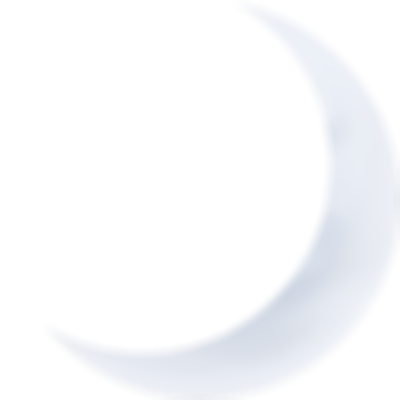
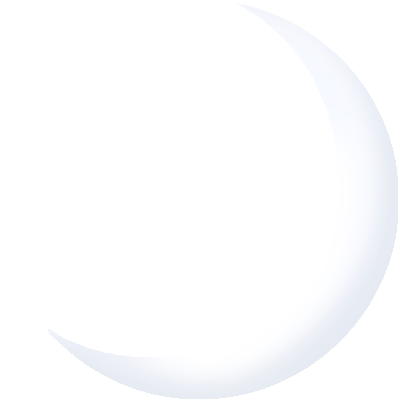
feat: rename Соединение to Подключение, strip Оформление down to the font
Both builds, same cut in each:

  * Соединение is Подключение everywhere it is a page title or a hub card.
  * Оформление keeps only the font picker. Themes, colour swatches, window
    opacity, moon artwork, background image and the language block are gone —
    a lot of knobs to carry in two clients for something almost nobody moves.
  * Политика конфиденциальности drops out of the hub. It is still there, opened
    from О приложении, which is where it belongs.
  * The disconnected moon is the redrawn one from assets/icons; it feeds both
    the connect button and the Windows tray icon.

The theme model itself stays and still loads from theme.json — only the editing
UI went. The view-model commands it used are now unreferenced and get removed in
the cleanup pass.

Changed region(s): [[0.42, 0.45, 0.9, 0.93], [0.81, 0.3, 0.87, 0.36]]

diff --git a/src/MoonInternet.App/Views/SettingsView.xaml b/src/MoonInternet.App/Views/SettingsView.xaml
@@ -74,14 +74,15 @@
                 <TextBlock Text="Настройки" FontSize="26" FontWeight="Bold" Margin="2,4,0,2"/>
                 <TextBlock Text="Moon Internet · 0.9.0 beta" Foreground="{StaticResource TextSecondary}" FontSize="12.5" Margin="2,0,0,18"/>
 
-                <Button Style="{StaticResource HubCard}" Tag="&#xE790;" Content="Оформление" ToolTip="Тема, шрифт, цвета, иконки" Command="{Binding OpenSettingsPageCommand}" CommandParameter="appearance"/>
-                <Button Style="{StaticResource HubCard}" Tag="&#xE839;" Content="Соединение" ToolTip="TUN, авто-переподключение, kill-switch" Command="{Binding OpenSettingsPageCommand}" CommandParameter="connection"/>
+                <Button Style="{StaticResource HubCard}" Tag="&#xE790;" Content="Оформление" ToolTip="Шрифт" Command="{Binding OpenSettingsPageCommand}" CommandParameter="appearance"/>
+                <Button Style="{StaticResource HubCard}" Tag="&#xE839;" Content="Подключение" ToolTip="TUN, авто-переподключение, kill-switch" Command="{Binding OpenSettingsPageCommand}" CommandParameter="connection"/>
                 <Button Style="{StaticResource HubCard}" Tag="&#xE71B;" Content="Маршрутизация" ToolTip="Профили, правила, приложения, DNS" Command="{Binding OpenSettingsPageCommand}" CommandParameter="routing"/>
                 <Button Style="{StaticResource HubCard}" Tag="&#xE8F1;" Content="Настройки подписок" ToolTip="Обновление, срок, авто-обновление" Command="{Binding OpenSettingsPageCommand}" CommandParameter="subs"/>
                 <Button Style="{StaticResource HubCard}" Tag="&#xEC4A;" Content="Настройки пинга" ToolTip="Как и когда измерять задержку" Command="{Binding OpenSettingsPageCommand}" CommandParameter="ping"/>
                 <Button Style="{StaticResource HubCard}" Tag="&#xEC92;" Content="Авто" ToolTip="Автозапуск, автоподключение, трей" Command="{Binding OpenSettingsPageCommand}" CommandParameter="auto"/>
                 <Button Style="{StaticResource HubCard}" Tag="&#xE7C3;" Content="Логи" ToolTip="Диагностика и журналы" Command="{Binding OpenSettingsPageCommand}" CommandParameter="logs"/>
-                <Button Style="{StaticResource HubCard}" Tag="&#xE72E;" Content="Политика конфиденциальности" ToolTip="Как приложение обращается с данными" Command="{Binding OpenSettingsPageCommand}" CommandParameter="privacy"/>
+                <!-- Политики конфиденциальности здесь нет: она открывается из «О приложении»,
+                     где ей и место, и в хабе не занимает строку. -->
                 <Button Style="{StaticResource HubCard}" Tag="&#xE946;" Content="О приложении" ToolTip="Версии, ссылки, система" Command="{Binding OpenSettingsPageCommand}" CommandParameter="about"/>
             </StackPanel>
         </ScrollViewer>
@@ -95,84 +96,10 @@
                     <TextBlock Text="Оформление" FontSize="24" FontWeight="Bold" Margin="6,0,0,0" VerticalAlignment="Center"/>
                 </StackPanel>
 
-                <!-- Тема -->
-                <TextBlock Text="ТЕМА" Foreground="{StaticResource SectionLabel}" FontSize="10.5" FontWeight="SemiBold" Margin="4,0,0,8"/>
-                <Border CornerRadius="14" Background="{StaticResource Card}" BorderBrush="{StaticResource BorderSoft}" BorderThickness="1" Padding="14">
-                    <ItemsControl ItemsSource="{Binding Presets}">
-                        <ItemsControl.ItemsPanel><ItemsPanelTemplate><WrapPanel/></ItemsPanelTemplate></ItemsControl.ItemsPanel>
-                        <ItemsControl.ItemTemplate>
-                            <DataTemplate>
-                                <Button Style="{StaticResource SecondaryButton}" Padding="12,7" Margin="0,0,8,8"
-                                        Command="{Binding DataContext.ApplyPresetCommand, RelativeSource={RelativeSource AncestorType=UserControl}}" CommandParameter="{Binding}">
-                                    <StackPanel Orientation="Horizontal">
-                                        <Ellipse Width="12" Height="12" VerticalAlignment="Center" Fill="{Binding Accent, Converter={StaticResource HexBrush}}"/>
-                                        <TextBlock Text="{Binding Name}" Margin="8,0,0,0" VerticalAlignment="Center"/>
-                                    </StackPanel>
-                                </Button>
-                            </DataTemplate>
-                        </ItemsControl.ItemTemplate>
-                    </ItemsControl>
-                </Border>
-
-                <!-- Цвета -->
-                <TextBlock Text="ЦВЕТА" Foreground="{StaticResource SectionLabel}" FontSize="10.5" FontWeight="SemiBold" Margin="4,18,0,8"/>
-                <Border CornerRadius="14" Background="{StaticResource Card}" BorderBrush="{StaticResource BorderSoft}" BorderThickness="1" Padding="14">
-                    <StackPanel>
-                        <TextBlock Text="Цвет кнопок (акцент)" FontWeight="SemiBold" FontSize="13"/>
-                        <ItemsControl ItemsSource="{Binding AccentSwatches}" Margin="0,8,0,0">
-                            <ItemsControl.ItemsPanel><ItemsPanelTemplate><WrapPanel/></ItemsPanelTemplate></ItemsControl.ItemsPanel>
-                            <ItemsControl.ItemTemplate>
-                                <DataTemplate>
-                                    <Button Width="28" Height="28" Margin="0,0,8,0" Cursor="Hand"
-                                            Command="{Binding DataContext.SetAccentCommand, RelativeSource={RelativeSource AncestorType=UserControl}}" CommandParameter="{Binding}">
-                                        <Button.Template><ControlTemplate TargetType="Button"><Ellipse Fill="{Binding Converter={StaticResource HexBrush}}" Stroke="#50FFFFFF" StrokeThickness="1"/></ControlTemplate></Button.Template>
-                                    </Button>
-                                </DataTemplate>
-                            </ItemsControl.ItemTemplate>
-                        </ItemsControl>
-                        <StackPanel Orientation="Horizontal" Margin="0,8,0,0">
-                            <TextBox Style="{StaticResource DarkTextBox}" Width="130" Text="{Binding AccentHex, UpdateSourceTrigger=LostFocus}"/>
-                            <Border Width="28" Height="28" CornerRadius="7" Margin="10,0,0,0" Background="{Binding AccentHex, Converter={StaticResource HexBrush}}"/>
-                        </StackPanel>
-
-                        <TextBlock Text="Цвет интерфейса (фон)" FontWeight="SemiBold" FontSize="13" Margin="0,16,0,0"/>
-                        <ItemsControl ItemsSource="{Binding BgSwatches}" Margin="0,8,0,0">
-                            <ItemsControl.ItemsPanel><ItemsPanelTemplate><WrapPanel/></ItemsPanelTemplate></ItemsControl.ItemsPanel>
-                            <ItemsControl.ItemTemplate>
-                                <DataTemplate>
-                                    <Button Width="28" Height="28" Margin="0,0,8,0" Cursor="Hand"
-                                            Command="{Binding DataContext.SetBgColorCommand, RelativeSource={RelativeSource AncestorType=UserControl}}" CommandParameter="{Binding}">
-                                        <Button.Template><ControlTemplate TargetType="Button"><Border CornerRadius="7" Background="{Binding Converter={StaticResource HexBrush}}" BorderBrush="#50FFFFFF" BorderThickness="1"/></ControlTemplate></Button.Template>
-                                    </Button>
-                                </DataTemplate>
-                            </ItemsControl.ItemTemplate>
-                        </ItemsControl>
-                        <StackPanel Orientation="Horizontal" Margin="0,8,0,0">
-                            <TextBox Style="{StaticResource DarkTextBox}" Width="130" Text="{Binding BgHex, UpdateSourceTrigger=LostFocus}"/>
-                            <Border Width="28" Height="28" CornerRadius="7" Margin="10,0,0,0" Background="{Binding BgHex, Converter={StaticResource HexBrush}}"/>
-                        </StackPanel>
-
-                        <TextBlock Text="Цвет текста" FontWeight="SemiBold" FontSize="13" Margin="0,16,0,0"/>
-                        <ItemsControl ItemsSource="{Binding TextSwatches}" Margin="0,8,0,0">
-                            <ItemsControl.ItemsPanel><ItemsPanelTemplate><WrapPanel/></ItemsPanelTemplate></ItemsControl.ItemsPanel>
-                            <ItemsControl.ItemTemplate>
-                                <DataTemplate>
-                                    <Button Width="28" Height="28" Margin="0,0,8,0" Cursor="Hand"
-                                            Command="{Binding DataContext.SetTextColorCommand, RelativeSource={RelativeSource AncestorType=UserControl}}" CommandParameter="{Binding}">
-                                        <Button.Template><ControlTemplate TargetType="Button"><Border CornerRadius="7" Background="{Binding Converter={StaticResource HexBrush}}" BorderBrush="#50FFFFFF" BorderThickness="1"/></ControlTemplate></Button.Template>
-                                    </Button>
-                                </DataTemplate>
-                            </ItemsControl.ItemTemplate>
-                        </ItemsControl>
-                        <StackPanel Orientation="Horizontal" Margin="0,8,0,0">
-                            <TextBox Style="{StaticResource DarkTextBox}" Width="130" Text="{Binding TextHex, UpdateSourceTrigger=LostFocus}"/>
-                            <Border Width="28" Height="28" CornerRadius="7" Margin="10,0,0,0" Background="{Binding TextHex, Converter={StaticResource HexBrush}}"/>
-                        </StackPanel>
-                    </StackPanel>
-                </Border>
-
-                <!-- Шрифт -->
-                <TextBlock Text="ШРИФТ" Foreground="{StaticResource SectionLabel}" FontSize="10.5" FontWeight="SemiBold" Margin="4,18,0,8"/>
+                <!-- Шрифт — единственное, что осталось настраиваемым. Темы, цвета, прозрачность,
+                     картинки луны и фон убраны: слишком много ручек ради того, что почти никто
+                     не трогает, а поддерживать их надо было в обеих версиях. -->
+                <TextBlock Text="ШРИФТ" Foreground="{StaticResource SectionLabel}" FontSize="10.5" FontWeight="SemiBold" Margin="4,0,0,8"/>
                 <Border CornerRadius="14" Background="{StaticResource Card}" BorderBrush="{StaticResource BorderSoft}" BorderThickness="1" Padding="14">
                     <ItemsControl ItemsSource="{Binding Fonts}">
                         <ItemsControl.ItemsPanel><ItemsPanelTemplate><WrapPanel/></ItemsPanelTemplate></ItemsControl.ItemsPanel>
@@ -186,80 +113,17 @@
                         </ItemsControl.ItemTemplate>
                     </ItemsControl>
                 </Border>
-
-                <!-- Прозрачность интерфейса -->
-                <TextBlock Text="ПРОЗРАЧНОСТЬ ИНТЕРФЕЙСА" Foreground="{StaticResource SectionLabel}" FontSize="10.5" FontWeight="SemiBold" Margin="4,18,0,8"/>
-                <Border CornerRadius="14" Background="{StaticResource Card}" BorderBrush="{StaticResource BorderSoft}" BorderThickness="1" Padding="16,12">
-                    <StackPanel>
-                        <TextBlock Text="Прозрачность окна" FontSize="14" FontWeight="SemiBold"/>
-                        <Slider Minimum="0.7" Maximum="1" Value="{Binding UiOpacity}" Margin="0,8,0,0"/>
-                        <TextBlock Text="Просвечивает рабочий стол сквозь окно." Foreground="{StaticResource TextSecondary}" FontSize="11.5" Margin="0,4,0,0"/>
-                    </StackPanel>
-                </Border>
-
-                <!-- Иконка / картинки кнопки -->
-                <TextBlock Text="ИКОНКА" Foreground="{StaticResource SectionLabel}" FontSize="10.5" FontWeight="SemiBold" Margin="4,18,0,8"/>
-                <Border CornerRadius="14" Background="{StaticResource Card}" BorderBrush="{StaticResource BorderSoft}" BorderThickness="1" Padding="14">
-                    <StackPanel>
-                        <TextBlock Foreground="{StaticResource TextSecondary}" FontSize="11.5" TextWrapping="Wrap"
-                                   Text="PNG с прозрачным фоном. Кнопка — квадрат ≥ 400×400. Луна в меню снизу ≥ 128×128. Пусто = встроенная."/>
-                        <Grid Margin="0,10,0,0">
-                            <Grid.ColumnDefinitions><ColumnDefinition Width="150"/><ColumnDefinition Width="Auto"/></Grid.ColumnDefinitions>
-                            <Grid.RowDefinitions><RowDefinition/><RowDefinition/><RowDefinition/></Grid.RowDefinitions>
-                            <TextBlock Grid.Row="0" Grid.Column="0" Text="Подключено (полная)" Foreground="{StaticResource TextSecondary}" VerticalAlignment="Center"/>
-                            <Button Grid.Row="0" Grid.Column="1" Style="{StaticResource SecondaryButton}" Command="{Binding PickMoonOnCommand}" Content="Выбрать…" Padding="12,6" Margin="0,0,0,6"/>
-                            <TextBlock Grid.Row="1" Grid.Column="0" Text="Отключено (полумесяц)" Foreground="{StaticResource TextSecondary}" VerticalAlignment="Center"/>
-                            <Button Grid.Row="1" Grid.Column="1" Style="{StaticResource SecondaryButton}" Command="{Binding PickMoonOffCommand}" Content="Выбрать…" Padding="12,6" Margin="0,0,0,6"/>
-                            <TextBlock Grid.Row="2" Grid.Column="0" Text="Луна в меню снизу" Foreground="{StaticResource TextSecondary}" VerticalAlignment="Center"/>
-                            <Button Grid.Row="2" Grid.Column="1" Style="{StaticResource SecondaryButton}" Command="{Binding PickNavMoonCommand}" Content="Выбрать…" Padding="12,6"/>
-                        </Grid>
-                        <Button Style="{StaticResource SecondaryButton}" Command="{Binding ResetMoonImagesCommand}" Content="Сбросить картинки" Padding="12,7" HorizontalAlignment="Left" Margin="0,10,0,0"/>
-                    </StackPanel>
-                </Border>
-
-                <!-- Фон -->
-                <TextBlock Text="ФОН" Foreground="{StaticResource SectionLabel}" FontSize="10.5" FontWeight="SemiBold" Margin="4,18,0,8"/>
-                <Border CornerRadius="14" Background="{StaticResource Card}" BorderBrush="{StaticResource BorderSoft}" BorderThickness="1" Padding="14">
-                    <StackPanel>
-                        <StackPanel Orientation="Horizontal">
-                            <Button Style="{StaticResource PrimaryButton}" Command="{Binding PickBackgroundCommand}" Content="Выбрать…" Padding="14,8"/>
-                            <Button Style="{StaticResource SecondaryButton}" Command="{Binding ClearBackgroundCommand}" Content="Убрать" Padding="14,8" Margin="8,0,0,0"/>
-                            <TextBlock Text="{Binding BackgroundInfo}" Foreground="{StaticResource TextSecondary}" VerticalAlignment="Center" Margin="12,0,0,0" TextTrimming="CharacterEllipsis" MaxWidth="150"/>
-                        </StackPanel>
-                        <StackPanel Orientation="Horizontal" Margin="0,10,0,0">
-                            <TextBlock Text="Прозрачность фона" Foreground="{StaticResource TextSecondary}" VerticalAlignment="Center" Width="140"/>
-                            <Slider Minimum="0.1" Maximum="1" Value="{Binding BgOpacity}" Width="180" VerticalAlignment="Center"/>
-                        </StackPanel>
-                    </StackPanel>
-                </Border>
-
-                <!-- Язык -->
-                <TextBlock Text="ЯЗЫК" Foreground="{StaticResource SectionLabel}" FontSize="10.5" FontWeight="SemiBold" Margin="4,18,0,8"/>
-                <Border CornerRadius="14" Background="{StaticResource Card}" BorderBrush="{StaticResource BorderSoft}" BorderThickness="1" Padding="14">
-                    <Grid>
-                        <StackPanel>
-                            <TextBlock Text="Русский" FontSize="14" FontWeight="SemiBold"/>
-                            <TextBlock Text="Другие языки — позже" Foreground="{StaticResource TextSecondary}" FontSize="12" Margin="0,2,0,0"/>
-                        </StackPanel>
-                        <TextBlock Text="&#xE73E;" FontFamily="Segoe MDL2 Assets" Foreground="{StaticResource Accent}" HorizontalAlignment="Right" VerticalAlignment="Center"/>
-                    </Grid>
-                </Border>
-
-                <StackPanel Orientation="Horizontal" Margin="0,16,0,0">
-                    <Button Style="{StaticResource SecondaryButton}" Command="{Binding ExportThemeCommand}" Content="Экспорт" Padding="14,8"/>
-                    <Button Style="{StaticResource SecondaryButton}" Command="{Binding ImportThemeCommand}" Content="Импорт" Padding="14,8" Margin="8,0,0,0"/>
-                    <Button Style="{StaticResource SecondaryButton}" Command="{Binding ResetThemeCommand}" Content="Сбросить тему" Padding="14,8" Margin="8,0,0,0"/>
-                </StackPanel>
             </StackPanel>
         </ScrollViewer>
 
-        <!-- ================= СОЕДИНЕНИЕ ================= -->
+
+        <!-- ================= ПОДКЛЮЧЕНИЕ ================= -->
         <ScrollViewer VerticalScrollBarVisibility="Auto"
                       Visibility="{Binding SettingsPage, Converter={StaticResource EnumVis}, ConverterParameter=connection}">
             <StackPanel Margin="24,20,24,24">
                 <StackPanel Orientation="Horizontal" Margin="0,4,0,16" shell:WindowChrome.IsHitTestVisibleInChrome="True">
                     <Button Style="{StaticResource GlyphButton}" Content="&#xE72B;" Command="{Binding SettingsBackCommand}" ToolTip="Назад"/>
-                    <TextBlock Text="Соединение" FontSize="24" FontWeight="Bold" Margin="6,0,0,0" VerticalAlignment="Center"/>
+                    <TextBlock Text="Подключение" FontSize="24" FontWeight="Bold" Margin="6,0,0,0" VerticalAlignment="Center"/>
                 </StackPanel>
 
                 <Border CornerRadius="14" Background="{StaticResource Card}" BorderBrush="{StaticResource BorderSoft}" BorderThickness="1" Padding="6">

diff --git a/android/app/src/main/java/cc/moon/internet/ui/SettingsScreen.kt b/android/app/src/main/java/cc/moon/internet/ui/SettingsScreen.kt
@@ -30,25 +30,25 @@ import cc.moon.internet.data.AppState
  * background image) are the only omissions, each noted where it used to sit.
  */
 enum class SettingsPage(val title: String, val subtitle: String, val icon: ImageVector) {
-    Appearance("Оформление", "Тема, шрифт, цвета, иконки", Icons.Filled.Palette),
-    Connection("Соединение", "Локальный прокси, LAN, UDP", Icons.Filled.Cable),
+    Appearance("Оформление", "Шрифт", Icons.Filled.Palette),
+    Connection("Подключение", "Локальный прокси, LAN, UDP", Icons.Filled.Cable),
     Routing("Маршрутизация", "Профили, правила, приложения, DNS", Icons.Filled.AltRoute),
     Subscriptions("Настройки подписок", "Обновление, срок, авто-обновление", Icons.Filled.LibraryBooks),
     Ping("Настройки пинга", "Как и когда измерять задержку", Icons.Filled.Speed),
     Auto("Авто", "Автоподключение, выбор сервера", Icons.Filled.PlayCircle),
     Logs("Логи", "Диагностика и журналы", Icons.Filled.Description),
-    Privacy("Политика конфиденциальности", "Как приложение обращается с данными", Icons.Filled.PrivacyTip),
     About("О приложении", "Версии, ссылки, система", Icons.Filled.Info),
 
     // reached from inside another page, never from the hub
+    Privacy("Политика конфиденциальности", "Как приложение обращается с данными", Icons.Filled.PrivacyTip),
     AppRouting("Прокси по приложениям", "", Icons.Filled.Apps),
     Terms("Условия использования", "", Icons.Filled.Gavel),
     Libs("Сторонние библиотеки", "", Icons.Filled.Code),
     ;
 
     companion object {
-        /** Exactly the nine cards the desktop hub shows, in the same order. */
-        val hub = listOf(Appearance, Connection, Routing, Subscriptions, Ping, Auto, Logs, Privacy, About)
+        /** Exactly the cards the desktop hub shows, in the same order. */
+        val hub = listOf(Appearance, Connection, Routing, Subscriptions, Ping, Auto, Logs, About)
     }
 }
 
@@ -131,80 +131,18 @@ data class AppEntry(val pkg: String, val label: String, val icon: android.graphi
 @Composable
 private fun AppearancePage(state: AppState, onSet: ((AppState.() -> AppState)) -> Unit) {
     Column {
-        SectionLabel("ТЕМА", top = 0)
-        MoonCard(padding = 14) {
-            FlowRow(horizontalArrangement = Arrangement.spacedBy(8.dp),
-                    verticalArrangement = Arrangement.spacedBy(8.dp)) {
-                listOf(
-                    Triple("Луна", "FF9D7BFF", "FF0D0A18"),
-                    Triple("Ночь", "FF4C82FF", "FF0A0B10"),
-                    Triple("Мята", "FF34D399", "FF091412"),
-                    Triple("Закат", "FFFF6B8A", "FF150A10"),
-                ).forEach { (name, accent, bg) ->
-                    Surface(
-                        onClick = { onSet { copy(accentHex = accent, bgHex = bg) } },
-                        shape = RoundedCornerShape(11.dp), color = Moon.ChipBg,
-                        border = androidx.compose.foundation.BorderStroke(1.dp, Moon.BorderSoft),
-                    ) {
-                        Row(Modifier.padding(12.dp, 7.dp), verticalAlignment = Alignment.CenterVertically) {
-                            Box(Modifier.size(12.dp).background(Color(accent.toLong(16)), CircleShape))
-                            Spacer(Modifier.width(8.dp))
-                            Text(name, color = Moon.TextPrimary, fontSize = 12.5.sp)
-                        }
-                    }
-                }
-            }
-        }
-
-        SectionLabel("ЦВЕТА")
-        MoonCard(padding = 14) {
-            Text("Цвет кнопок (акцент)", color = Moon.TextPrimary, fontSize = 13.sp, fontWeight = FontWeight.SemiBold)
-            Spacer(Modifier.height(8.dp))
-            Swatches(listOf("FF9D7BFF", "FF4C82FF", "FF34D399", "FFFF6B8A", "FFF5C042", "FF00C2CB"),
-                     state.accentHex, round = true) { onSet { copy(accentHex = it) } }
-
-            Text("Цвет интерфейса (фон)", color = Moon.TextPrimary, fontSize = 13.sp,
-                 fontWeight = FontWeight.SemiBold, modifier = Modifier.padding(top = 16.dp))
-            Spacer(Modifier.height(8.dp))
-            Swatches(listOf("FF0D0A18", "FF0A0B10", "FF10121C", "FF14101F", "FF000000"),
-                     state.bgHex, round = false) { onSet { copy(bgHex = it) } }
-
-            Text("Цвет текста", color = Moon.TextPrimary, fontSize = 13.sp,
-                 fontWeight = FontWeight.SemiBold, modifier = Modifier.padding(top = 16.dp))
-            Spacer(Modifier.height(8.dp))
-            Swatches(listOf("FFECE9F5", "FFFFFFFF", "FFD8D4E8", "FFB9A7FF"),
-                     state.textHex, round = false) { onSet { copy(textHex = it) } }
-        }
-
-        SectionLabel("ШРИФТ")
+        // Only the font is settable now. Themes, colour swatches and the language block are
+        // gone — same cut as on the desktop build, so the two pages still match.
+        SectionLabel("ШРИФТ", top = 0)
         MoonCard(padding = 14) {
             ChipFlow(listOf("comic" to "Comic (как на ПК)", "system" to "Системный"), state.fontName) {
                 onSet { copy(fontName = it) }
             }
         }
-
-        SectionLabel("ЯЗЫК")
-        MoonCard(padding = 14) {
-            Row(verticalAlignment = Alignment.CenterVertically) {
-                Column(Modifier.weight(1f)) {
-                    Text("Русский", color = Moon.TextPrimary, fontSize = 14.sp, fontWeight = FontWeight.SemiBold)
-                    Text("Другие языки — позже", color = Moon.TextSecondary, fontSize = 12.sp,
-                         modifier = Modifier.padding(top = 2.dp))
-                }
-                Icon(Icons.Filled.Check, null, tint = Moon.Accent, modifier = Modifier.size(18.dp))
-            }
-        }
-
-        Row(Modifier.padding(top = 16.dp)) {
-            SecondaryButton("Сбросить тему") {
-                onSet { copy(accentHex = "FF9D7BFF", bgHex = "FF0D0A18", textHex = "FFECE9F5", fontName = "comic") }
-            }
-        }
-        // «Прозрачность окна», «Фон» и подмена картинок луны — только для ПК.
     }
 }
 
-// ---------------------------------------------------------------- СОЕДИНЕНИЕ
+// ---------------------------------------------------------------- ПОДКЛЮЧЕНИЕ
 @Composable
 private fun ConnectionPage(
     state: AppState,
